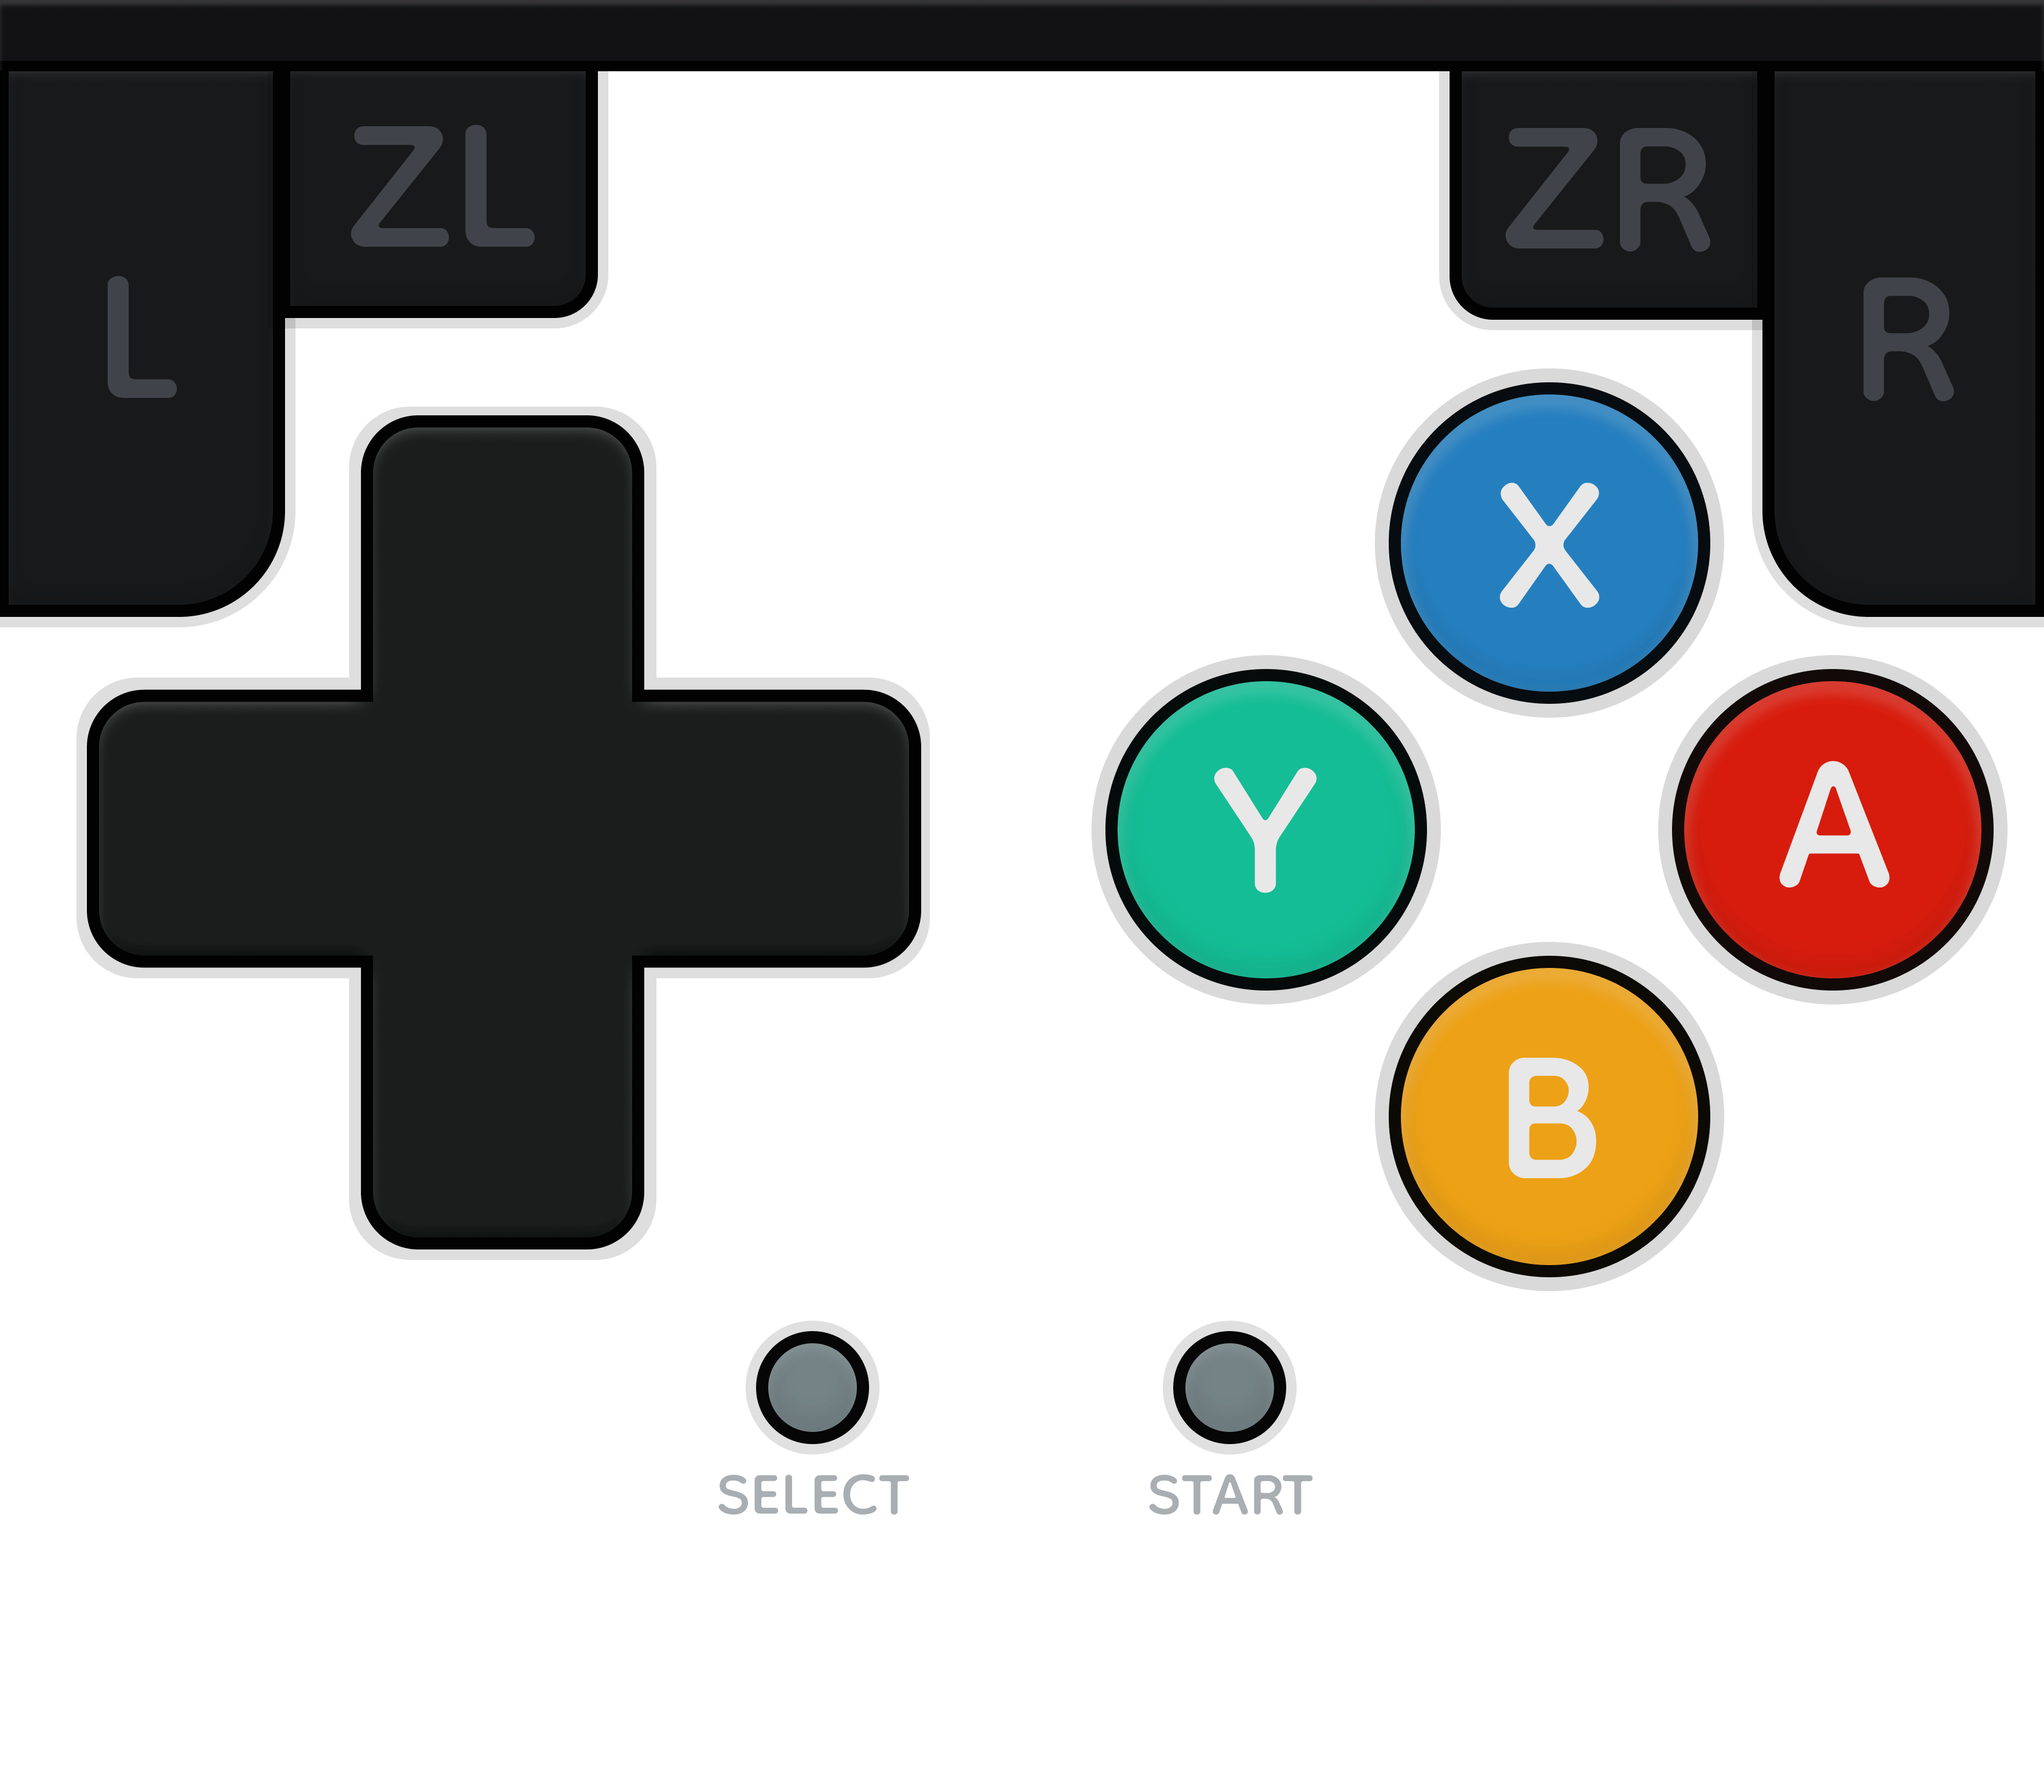
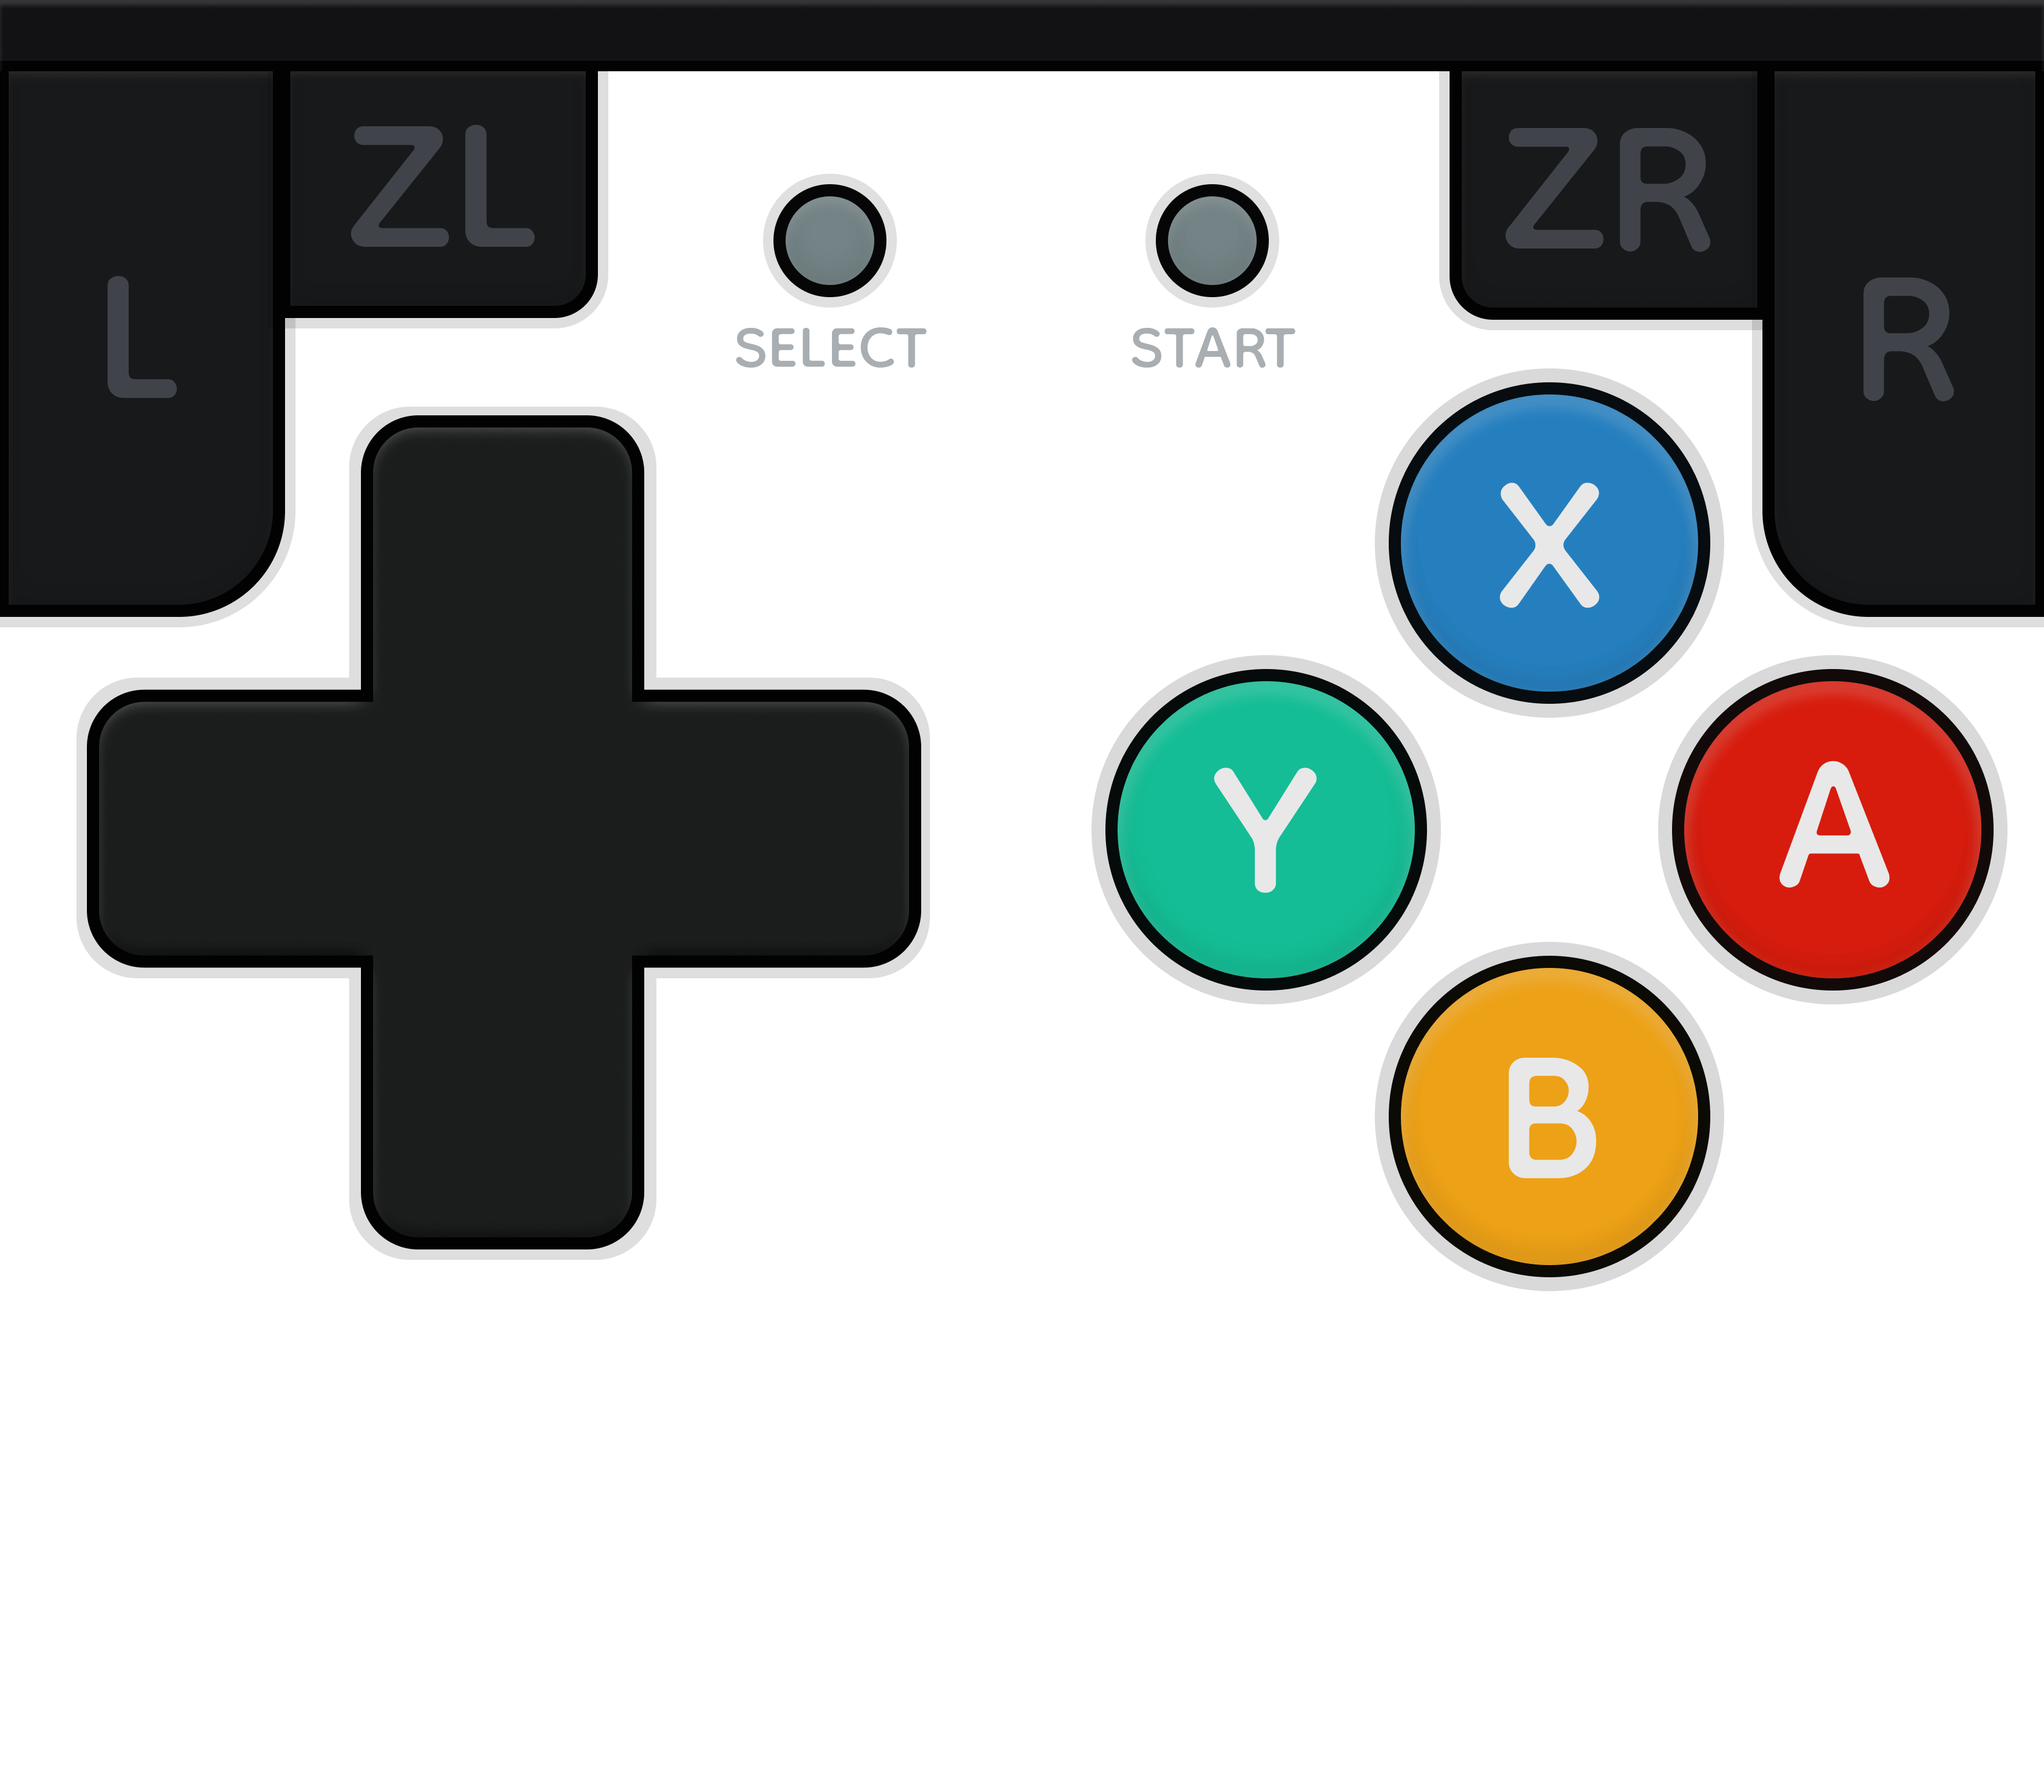
Move controller down for better ergonomics

diff --git a/src/input/touch.ts b/src/input/touch.ts
@@ -1,6 +1,8 @@
 import { haptic } from "./haptic";
 import { type Action, activeActions, type Direction } from "./input";
 
+const DEBUG_TOUCH_CONTROLLER: boolean = import.meta.env.DEV && true;
+
 let lastTouchEnd = 0;
 
 // iOS double-tap prevention hack
@@ -15,8 +17,6 @@ document.addEventListener(
 	},
 	{ passive: false },
 );
-
-const DEBUG_TOUCH_CONTROLLER: boolean = import.meta.env.DEV && false;
 
 type PointerBinding = {
 	action: Action;
@@ -271,10 +271,10 @@ export function initVirtualGamepad() {
 
 	const start = makeButton("start");
 	start.style.cssText +=
-		" right: 33.75%; top: 72.25%; width: 12%; aspect-ratio: 1 / 1.5; border-radius: 1em;";
+		" right: 34.5%; top: 6%; width: 12%; aspect-ratio: 1 / 1.5; border-radius: 1em;";
 	const select = makeButton("select");
 	select.style.cssText +=
-		" left: 33.75%; top: 72.25%; width: 12%; aspect-ratio: 1 / 1.5; border-radius: 1em;";
+		" left: 34.5%; top: 6%; width: 12%; aspect-ratio: 1 / 1.5; border-radius: 1em;";
 
 	const l = makeButton("l");
 	l.style.cssText +=

diff --git a/src/scenes/laptop/laptop.ts b/src/scenes/laptop/laptop.ts
@@ -3,6 +3,7 @@ import { ctx } from "../../canvas";
 import { GAME_HEIGHT, GAME_WIDTH } from "../../config";
 import { activeActions } from "../../input/input";
 import { player } from "../../state";
+import { returnToOverworld } from "../overworld";
 import { biodex } from "./biodex";
 import { moves } from "./moves";
 
@@ -12,7 +13,7 @@ export function openLaptop() {
 	laptopState.show = true;
 }
 
-const laptopModes = ["biodex", "moves", "nothing"] as const;
+const laptopModes = ["biodex", "moves"] as const;
 type LaptopMode = (typeof laptopModes)[number];
 
 export type LaptopState = {
@@ -62,6 +63,10 @@ export function laptop(dt: number) {
 	if (activeActions.has("select")) {
 		activeActions.delete("select");
 		nextLaptopMode();
+	}
+
+	if (activeActions.has("start") || activeActions.has("b")) {
+		returnToOverworld();
 	}
 
 	if (laptopState.mode === "biodex") biodex(dt);

diff --git a/src/scenes/laptop/biodex.ts b/src/scenes/laptop/biodex.ts
@@ -9,9 +9,8 @@ import {
 } from "../../characters/animals";
 import type { CharacterAnimationID } from "../../characters/characters";
 import { GAME_HEIGHT, GAME_WIDTH, TILE_SIZE } from "../../config";
-import { activeActions, type Direction, directions } from "../../input/input";
+import { type Direction, directions } from "../../input/input";
 import { animalAnimations, animalDirectionRow } from "../../state";
-import { returnToOverworld } from "../overworld";
 import { laptopHeight, laptopWidth } from "./laptop";
 
 export type BioDexState = {
@@ -53,10 +52,6 @@ function updateAnimation(dt: number) {
 }
 
 function update(dt: number) {
-	if (activeActions.has("start") || activeActions.has("b")) {
-		returnToOverworld();
-		return;
-	}
 	updateAnimation(dt);
 }
 

diff --git a/src/scenes/laptop/moves.ts b/src/scenes/laptop/moves.ts
@@ -14,8 +14,7 @@ import {
 	GAME_WIDTH,
 	TILE_SIZE,
 } from "../../config";
-import { activeActions, type Direction, directions } from "../../input/input";
-import { returnToOverworld } from "../overworld";
+import { type Direction, directions } from "../../input/input";
 import { laptopHeight, laptopWidth } from "./laptop";
 
 export type EntitiesState = {
@@ -64,10 +63,6 @@ export function initializeMovesState() {
 }
 
 function update(dt: number) {
-	if (activeActions.has("start") || activeActions.has("b")) {
-		returnToOverworld();
-		return;
-	}
 	movesState.entities.forEach((entity) => {
 		const character = characters[entity.personId];
 		let animation = character.animations[entity.animationCurrent];

diff --git a/src/scenes/overworld.ts b/src/scenes/overworld.ts
@@ -172,7 +172,7 @@ function updatePlayer(dt: number) {
 				const isOutOfBounds =
 					outOfBoundsX ||
 					outOfBoundsY ||
-					world[targetTileY]?.[targetTileX] === -1;
+					(world[targetTileY]?.[targetTileX] ?? -1) < 0;
 				const isCollisionTile = tileMaps.grass.colisionIndices.includes(
 					world[targetTileY]?.[targetTileX] ?? -1,
 				);

diff --git a/index.html b/index.html
@@ -177,7 +177,7 @@
     <div
       id="controller-portrait"
       class="controller-portrait"
-      style="position: relative; margin-bottom: -20px"
+      style="position: relative; margin-bottom: -80px"
     >
       <img
         style="
